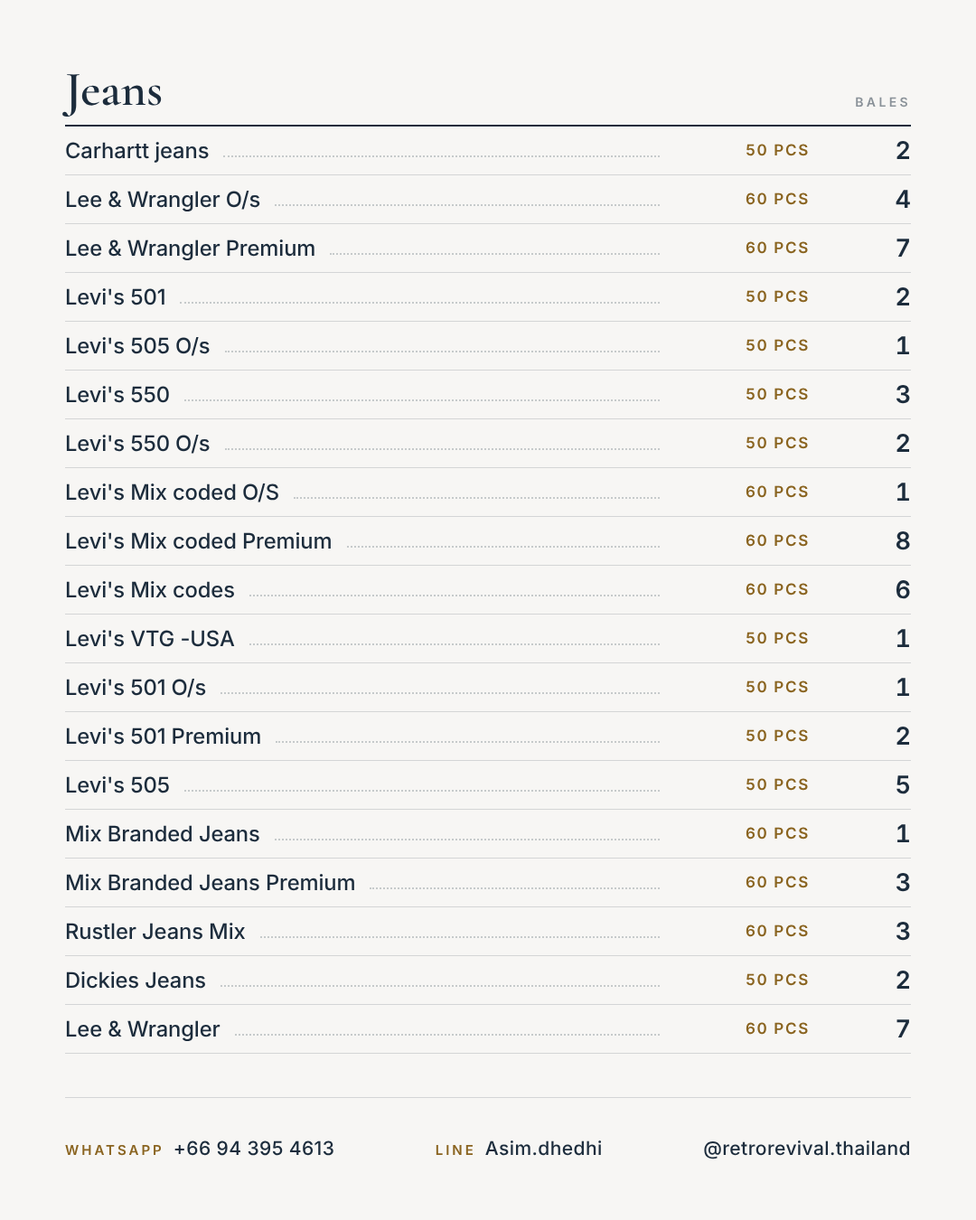
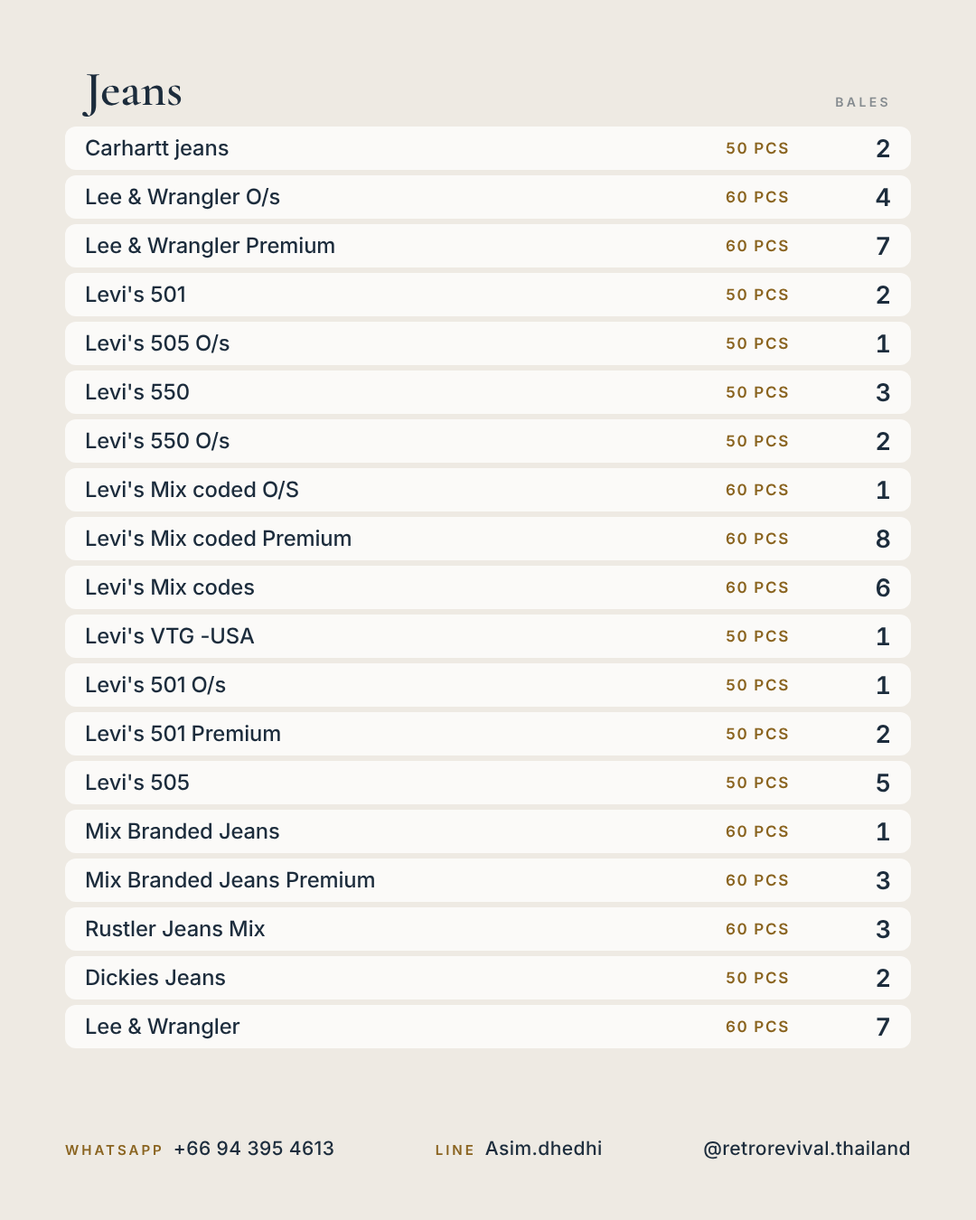
Add line-art cover option for A/B; swap row lines for soft containers
The --cover-art build flag draws a gold line illustration of strapped
bales beside the cover title. List rows now sit in near-white containers
on a warm cream slide, replacing row rules, dotted leaders, and section
underlines.

Claude-Session: https://claude.ai/code/session_01FjARQ1TdBw1wsppj9LT4t6

diff --git a/projects/stock-drop/output/2026-10/carousel.html b/projects/stock-drop/output/2026-10/carousel.html
@@ -18,31 +18,31 @@
       <div class="block">
         <div class="section-head"><h2>Collar T-shirts (3 buttons)</h2><span class="qt">Bales</span></div>
         <ul class="rows">
-          <li><span class="cat">Branded Collar T-shirts</span><span class="leader"></span><span class="pk">200 Pcs</span><span class="qty">3</span></li>
-          <li><span class="cat">Polo RL &amp; Tommy Collar T-shirts</span><span class="leader"></span><span class="pk">150 Pcs</span><span class="qty">6</span></li>
+          <li><span class="cat">Branded Collar T-shirts</span><span class="pk">200 Pcs</span><span class="qty">3</span></li>
+          <li><span class="cat">Polo RL &amp; Tommy Collar T-shirts</span><span class="pk">150 Pcs</span><span class="qty">6</span></li>
         </ul>
       </div>
       <div class="block">
         <div class="section-head"><h2>Cotton Shorts</h2><span class="qt">Bales</span></div>
         <ul class="rows">
-          <li><span class="cat">Mix Branded Cotton Shorts No.1</span><span class="leader"></span><span class="pk">150 Pcs</span><span class="qty">1</span></li>
-          <li><span class="cat">Mix Branded Cotton Shorts No.1 O/s</span><span class="leader"></span><span class="pk">150 Pcs</span><span class="qty">1</span></li>
-          <li><span class="cat">Mix Branded Cotton Shorts Premium</span><span class="leader"></span><span class="pk">150 Pcs</span><span class="qty">5</span></li>
-          <li><span class="cat">Mix Branded Cotton Shorts Premium O/s</span><span class="leader"></span><span class="pk">150 Pcs</span><span class="qty">3</span></li>
+          <li><span class="cat">Mix Branded Cotton Shorts No.1</span><span class="pk">150 Pcs</span><span class="qty">1</span></li>
+          <li><span class="cat">Mix Branded Cotton Shorts No.1 O/s</span><span class="pk">150 Pcs</span><span class="qty">1</span></li>
+          <li><span class="cat">Mix Branded Cotton Shorts Premium</span><span class="pk">150 Pcs</span><span class="qty">5</span></li>
+          <li><span class="cat">Mix Branded Cotton Shorts Premium O/s</span><span class="pk">150 Pcs</span><span class="qty">3</span></li>
         </ul>
       </div>
       <div class="block">
         <div class="section-head"><h2>Pants</h2><span class="qt">Bales</span></div>
         <ul class="rows">
-          <li><span class="cat">Carhartt Double Knee</span><span class="leader"></span><span class="pk">50 Pcs</span><span class="qty">1</span></li>
-          <li><span class="cat">Carhartt Pants Premium</span><span class="leader"></span><span class="pk">60 Pcs</span><span class="qty">3</span></li>
-          <li><span class="cat">Dickies Pants</span><span class="leader"></span><span class="pk">100 Pcs</span><span class="qty">2</span></li>
-          <li><span class="cat">Dickies Pants Premium</span><span class="leader"></span><span class="pk">100 Pcs</span><span class="qty">6</span></li>
-          <li><span class="cat">Mix Brand Pants</span><span class="leader"></span><span class="pk">100 Pcs</span><span class="qty">2</span></li>
-          <li><span class="cat">Mix Brand Pants O/S</span><span class="leader"></span><span class="pk">100 Pcs</span><span class="qty">1</span></li>
-          <li><span class="cat">Mix Brand Premium Pants</span><span class="leader"></span><span class="pk">100 Pcs</span><span class="qty">7</span></li>
-          <li><span class="cat">Polo RL Pants</span><span class="leader"></span><span class="pk">100 Pcs</span><span class="qty">2</span></li>
-          <li><span class="cat">Polo RL Pants Premium</span><span class="leader"></span><span class="pk">100 Pcs</span><span class="qty">1</span></li>
+          <li><span class="cat">Carhartt Double Knee</span><span class="pk">50 Pcs</span><span class="qty">1</span></li>
+          <li><span class="cat">Carhartt Pants Premium</span><span class="pk">60 Pcs</span><span class="qty">3</span></li>
+          <li><span class="cat">Dickies Pants</span><span class="pk">100 Pcs</span><span class="qty">2</span></li>
+          <li><span class="cat">Dickies Pants Premium</span><span class="pk">100 Pcs</span><span class="qty">6</span></li>
+          <li><span class="cat">Mix Brand Pants</span><span class="pk">100 Pcs</span><span class="qty">2</span></li>
+          <li><span class="cat">Mix Brand Pants O/S</span><span class="pk">100 Pcs</span><span class="qty">1</span></li>
+          <li><span class="cat">Mix Brand Premium Pants</span><span class="pk">100 Pcs</span><span class="qty">7</span></li>
+          <li><span class="cat">Polo RL Pants</span><span class="pk">100 Pcs</span><span class="qty">2</span></li>
+          <li><span class="cat">Polo RL Pants Premium</span><span class="pk">100 Pcs</span><span class="qty">1</span></li>
         </ul>
       </div>
     </div>
@@ -60,36 +60,36 @@
       <div class="block">
         <div class="section-head"><h2>Army</h2><span class="qt">Bales</span></div>
         <ul class="rows">
-          <li><span class="cat">Army Summer Mix</span><span class="leader"></span><span class="pk">60 Pcs</span><span class="qty">8</span></li>
-          <li><span class="cat">Vintage Army Mix Broken</span><span class="leader"></span><span class="pk">100 Lbs</span><span class="qty">3</span></li>
+          <li><span class="cat">Army Summer Mix</span><span class="pk">60 Pcs</span><span class="qty">8</span></li>
+          <li><span class="cat">Vintage Army Mix Broken</span><span class="pk">100 Lbs</span><span class="qty">3</span></li>
         </ul>
       </div>
       <div class="block">
         <div class="section-head"><h2>Baby</h2><span class="qt">Bales</span></div>
         <ul class="rows">
-          <li><span class="cat">Baby Vintage</span><span class="leader"></span><span class="pk">100 Lbs</span><span class="qty">9</span></li>
+          <li><span class="cat">Baby Vintage</span><span class="pk">100 Lbs</span><span class="qty">9</span></li>
         </ul>
       </div>
       <div class="block">
         <div class="section-head"><h2>Overall</h2><span class="qt">Bales</span></div>
         <ul class="rows">
-          <li><span class="cat">Canvas Material</span><span class="leader"></span><span class="pk">30 Pcs</span><span class="qty">2</span></li>
-          <li><span class="cat">Cotton Overall Mix</span><span class="leader"></span><span class="pk">30 Pcs</span><span class="qty">1</span></li>
-          <li><span class="cat">Jeans Material</span><span class="leader"></span><span class="pk">30 Pcs</span><span class="qty">3</span></li>
+          <li><span class="cat">Canvas Material</span><span class="pk">30 Pcs</span><span class="qty">2</span></li>
+          <li><span class="cat">Cotton Overall Mix</span><span class="pk">30 Pcs</span><span class="qty">1</span></li>
+          <li><span class="cat">Jeans Material</span><span class="pk">30 Pcs</span><span class="qty">3</span></li>
         </ul>
       </div>
       <div class="block">
         <div class="section-head"><h2>Sports T-shirts</h2><span class="qt">Bales</span></div>
         <ul class="rows">
-          <li><span class="cat">NBA/NFL Jerseys</span><span class="leader"></span><span class="pk">150 Pcs</span><span class="qty">2</span></li>
-          <li><span class="cat">Sports Branded T-shirts</span><span class="leader"></span><span class="pk">200 Pcs</span><span class="qty">4</span></li>
+          <li><span class="cat">NBA/NFL Jerseys</span><span class="pk">150 Pcs</span><span class="qty">2</span></li>
+          <li><span class="cat">Sports Branded T-shirts</span><span class="pk">200 Pcs</span><span class="qty">4</span></li>
         </ul>
       </div>
       <div class="block">
         <div class="section-head"><h2>Trousers</h2><span class="qt">Bales</span></div>
         <ul class="rows">
-          <li><span class="cat">Track Mix Trouser</span><span class="leader"></span><span class="pk">100 pcs</span><span class="qty">4</span></li>
-          <li><span class="cat">Vintage mix Trouser</span><span class="leader"></span><span class="pk">100 Pcs</span><span class="qty">2</span></li>
+          <li><span class="cat">Track Mix Trouser</span><span class="pk">100 pcs</span><span class="qty">4</span></li>
+          <li><span class="cat">Vintage mix Trouser</span><span class="pk">100 Pcs</span><span class="qty">2</span></li>
         </ul>
       </div>
     </div>
@@ -107,28 +107,28 @@
       <div class="block">
         <div class="section-head"><h2>Branded T-shirts</h2><span class="qt">Bales</span></div>
         <ul class="rows">
-          <li><span class="cat">Branded T-Shirts Over Size</span><span class="leader"></span><span class="pk">100 Lbs</span><span class="qty">5</span></li>
-          <li><span class="cat">Carhartt T-Shirts</span><span class="leader"></span><span class="pk">150 Pcs</span><span class="qty">4</span></li>
-          <li><span class="cat">Mix Branded T-shirts</span><span class="leader"></span><span class="pk">200 Pcs</span><span class="qty">17</span></li>
+          <li><span class="cat">Branded T-Shirts Over Size</span><span class="pk">100 Lbs</span><span class="qty">5</span></li>
+          <li><span class="cat">Carhartt T-Shirts</span><span class="pk">150 Pcs</span><span class="qty">4</span></li>
+          <li><span class="cat">Mix Branded T-shirts</span><span class="pk">200 Pcs</span><span class="qty">17</span></li>
         </ul>
       </div>
       <div class="block">
         <div class="section-head"><h2>Printed T-shirts</h2><span class="qt">Bales</span></div>
         <ul class="rows">
-          <li><span class="cat">Vintage Oversize Printed T-Shirts</span><span class="leader"></span><span class="pk">100 Lbs</span><span class="qty">9</span></li>
-          <li><span class="cat">France T-Shirts</span><span class="leader"></span><span class="pk">100 Lbs</span><span class="qty">4</span></li>
-          <li><span class="cat">50/50 T-shirts</span><span class="leader"></span><span class="pk">200 Pcs</span><span class="qty">3</span></li>
-          <li><span class="cat">American Movie Print T-shirts</span><span class="leader"></span><span class="pk">200 Pcs</span><span class="qty">6</span></li>
-          <li><span class="cat">Anime Cartoon Print T-shirts</span><span class="leader"></span><span class="pk">200 Pcs</span><span class="qty">2</span></li>
-          <li><span class="cat">Army Mix T-shirts</span><span class="leader"></span><span class="pk">200 Pcs</span><span class="qty">1</span></li>
-          <li><span class="cat">Disney Cartoon T-shirts</span><span class="leader"></span><span class="pk">200 Pcs</span><span class="qty">4</span></li>
-          <li><span class="cat">Harley-Davidson T-shirts</span><span class="leader"></span><span class="pk">150 Pcs</span><span class="qty">3</span></li>
-          <li><span class="cat">Marvel Movie Print</span><span class="leader"></span><span class="pk">200 Pcs</span><span class="qty">2</span></li>
-          <li><span class="cat">Mountain T-shirts</span><span class="leader"></span><span class="pk">150 Pcs</span><span class="qty">1</span></li>
-          <li><span class="cat">Music T-shirts</span><span class="leader"></span><span class="pk">200 Pcs</span><span class="qty">12</span></li>
-          <li><span class="cat">NASCAR T-shirts</span><span class="leader"></span><span class="pk">150 Pcs</span><span class="qty">1</span></li>
-          <li><span class="cat">Single Stitch T-shirts</span><span class="leader"></span><span class="pk">200 Pcs</span><span class="qty">4</span></li>
-          <li><span class="cat">Vintage Printed T-shirts</span><span class="leader"></span><span class="pk">200 Pcs</span><span class="qty">18</span></li>
+          <li><span class="cat">Vintage Oversize Printed T-Shirts</span><span class="pk">100 Lbs</span><span class="qty">9</span></li>
+          <li><span class="cat">France T-Shirts</span><span class="pk">100 Lbs</span><span class="qty">4</span></li>
+          <li><span class="cat">50/50 T-shirts</span><span class="pk">200 Pcs</span><span class="qty">3</span></li>
+          <li><span class="cat">American Movie Print T-shirts</span><span class="pk">200 Pcs</span><span class="qty">6</span></li>
+          <li><span class="cat">Anime Cartoon Print T-shirts</span><span class="pk">200 Pcs</span><span class="qty">2</span></li>
+          <li><span class="cat">Army Mix T-shirts</span><span class="pk">200 Pcs</span><span class="qty">1</span></li>
+          <li><span class="cat">Disney Cartoon T-shirts</span><span class="pk">200 Pcs</span><span class="qty">4</span></li>
+          <li><span class="cat">Harley-Davidson T-shirts</span><span class="pk">150 Pcs</span><span class="qty">3</span></li>
+          <li><span class="cat">Marvel Movie Print</span><span class="pk">200 Pcs</span><span class="qty">2</span></li>
+          <li><span class="cat">Mountain T-shirts</span><span class="pk">150 Pcs</span><span class="qty">1</span></li>
+          <li><span class="cat">Music T-shirts</span><span class="pk">200 Pcs</span><span class="qty">12</span></li>
+          <li><span class="cat">NASCAR T-shirts</span><span class="pk">150 Pcs</span><span class="qty">1</span></li>
+          <li><span class="cat">Single Stitch T-shirts</span><span class="pk">200 Pcs</span><span class="qty">4</span></li>
+          <li><span class="cat">Vintage Printed T-shirts</span><span class="pk">200 Pcs</span><span class="qty">18</span></li>
         </ul>
       </div>
     </div>
@@ -146,26 +146,26 @@
       <div class="block">
         <div class="section-head"><h2>Broken</h2><span class="qt">Bales</span></div>
         <ul class="rows">
-          <li><span class="cat">Levi's Coded Broken</span><span class="leader"></span><span class="pk">60 Pcs</span><span class="qty">32</span></li>
-          <li><span class="cat">Vintage Broken T-Shirts</span><span class="leader"></span><span class="pk">100 Lbs</span><span class="qty">21</span></li>
-          <li><span class="cat">Vintage Carhartt Mix Broken</span><span class="leader"></span><span class="pk">100 Lbs</span><span class="qty">62</span></li>
-          <li><span class="cat">Vintage Dickies Mix Broken</span><span class="leader"></span><span class="pk">100 Lbs</span><span class="qty">68</span></li>
-          <li><span class="cat">CN Jackets PK</span><span class="leader"></span><span class="pk">100 Lbs</span><span class="qty">1</span></li>
-          <li><span class="cat">Polo RL Cut</span><span class="leader"></span><span class="pk">100 Lbs</span><span class="qty">1</span></li>
+          <li><span class="cat">Levi's Coded Broken</span><span class="pk">60 Pcs</span><span class="qty">32</span></li>
+          <li><span class="cat">Vintage Broken T-Shirts</span><span class="pk">100 Lbs</span><span class="qty">21</span></li>
+          <li><span class="cat">Vintage Carhartt Mix Broken</span><span class="pk">100 Lbs</span><span class="qty">62</span></li>
+          <li><span class="cat">Vintage Dickies Mix Broken</span><span class="pk">100 Lbs</span><span class="qty">68</span></li>
+          <li><span class="cat">CN Jackets PK</span><span class="pk">100 Lbs</span><span class="qty">1</span></li>
+          <li><span class="cat">Polo RL Cut</span><span class="pk">100 Lbs</span><span class="qty">1</span></li>
         </ul>
       </div>
       <div class="block">
         <div class="section-head"><h2>Men Shirts</h2><span class="qt">Bales</span></div>
         <ul class="rows">
-          <li><span class="cat">Chaps &amp; Nautica Mix Shirts</span><span class="leader"></span><span class="pk">150 Pcs</span><span class="qty">8</span></li>
-          <li><span class="cat">Cowboy Shirts</span><span class="leader"></span><span class="pk">150 Pcs</span><span class="qty">3</span></li>
-          <li><span class="cat">Hawaii Shirts</span><span class="leader"></span><span class="pk">150 Pcs</span><span class="qty">7</span></li>
-          <li><span class="cat">LLW Shirts</span><span class="leader"></span><span class="pk">150 Pcs</span><span class="qty">3</span></li>
-          <li><span class="cat">Polo RL Shirts</span><span class="leader"></span><span class="pk">150 Pcs</span><span class="qty">4</span></li>
-          <li><span class="cat">Premium Fashion Branded Shirts</span><span class="leader"></span><span class="pk">150 Pcs</span><span class="qty">4</span></li>
-          <li><span class="cat">Premium Vintage Branded Shirts</span><span class="leader"></span><span class="pk">150 Pcs</span><span class="qty">7</span></li>
-          <li><span class="cat">Scout Shirts</span><span class="leader"></span><span class="pk">150 Pcs</span><span class="qty">4</span></li>
-          <li><span class="cat">Tommy Hilfiger Shirts</span><span class="leader"></span><span class="pk">150 Pcs</span><span class="qty">2</span></li>
+          <li><span class="cat">Chaps &amp; Nautica Mix Shirts</span><span class="pk">150 Pcs</span><span class="qty">8</span></li>
+          <li><span class="cat">Cowboy Shirts</span><span class="pk">150 Pcs</span><span class="qty">3</span></li>
+          <li><span class="cat">Hawaii Shirts</span><span class="pk">150 Pcs</span><span class="qty">7</span></li>
+          <li><span class="cat">LLW Shirts</span><span class="pk">150 Pcs</span><span class="qty">3</span></li>
+          <li><span class="cat">Polo RL Shirts</span><span class="pk">150 Pcs</span><span class="qty">4</span></li>
+          <li><span class="cat">Premium Fashion Branded Shirts</span><span class="pk">150 Pcs</span><span class="qty">4</span></li>
+          <li><span class="cat">Premium Vintage Branded Shirts</span><span class="pk">150 Pcs</span><span class="qty">7</span></li>
+          <li><span class="cat">Scout Shirts</span><span class="pk">150 Pcs</span><span class="qty">4</span></li>
+          <li><span class="cat">Tommy Hilfiger Shirts</span><span class="pk">150 Pcs</span><span class="qty">2</span></li>
         </ul>
       </div>
     </div>
@@ -183,25 +183,25 @@
       <div class="block">
         <div class="section-head"><h2>Jeans</h2><span class="qt">Bales</span></div>
         <ul class="rows">
-          <li><span class="cat">Carhartt jeans</span><span class="leader"></span><span class="pk">50 Pcs</span><span class="qty">2</span></li>
-          <li><span class="cat">Lee &amp; Wrangler O/s</span><span class="leader"></span><span class="pk">60 Pcs</span><span class="qty">4</span></li>
-          <li><span class="cat">Lee &amp; Wrangler Premium</span><span class="leader"></span><span class="pk">60 Pcs</span><span class="qty">7</span></li>
-          <li><span class="cat">Levi's 501</span><span class="leader"></span><span class="pk">50 Pcs</span><span class="qty">2</span></li>
-          <li><span class="cat">Levi's 505 O/s</span><span class="leader"></span><span class="pk">50 Pcs</span><span class="qty">1</span></li>
-          <li><span class="cat">Levi's 550</span><span class="leader"></span><span class="pk">50 Pcs</span><span class="qty">3</span></li>
-          <li><span class="cat">Levi's 550 O/s</span><span class="leader"></span><span class="pk">50 Pcs</span><span class="qty">2</span></li>
-          <li><span class="cat">Levi's Mix coded O/S</span><span class="leader"></span><span class="pk">60 Pcs</span><span class="qty">1</span></li>
-          <li><span class="cat">Levi's Mix coded Premium</span><span class="leader"></span><span class="pk">60 Pcs</span><span class="qty">8</span></li>
-          <li><span class="cat">Levi's Mix codes</span><span class="leader"></span><span class="pk">60 Pcs</span><span class="qty">6</span></li>
-          <li><span class="cat">Levi's VTG -USA</span><span class="leader"></span><span class="pk">50 Pcs</span><span class="qty">1</span></li>
-          <li><span class="cat">Levi's 501 O/s</span><span class="leader"></span><span class="pk">50 Pcs</span><span class="qty">1</span></li>
-          <li><span class="cat">Levi's 501 Premium</span><span class="leader"></span><span class="pk">50 Pcs</span><span class="qty">2</span></li>
-          <li><span class="cat">Levi's 505</span><span class="leader"></span><span class="pk">50 Pcs</span><span class="qty">5</span></li>
-          <li><span class="cat">Mix Branded Jeans</span><span class="leader"></span><span class="pk">60 Pcs</span><span class="qty">1</span></li>
-          <li><span class="cat">Mix Branded Jeans Premium</span><span class="leader"></span><span class="pk">60 Pcs</span><span class="qty">3</span></li>
-          <li><span class="cat">Rustler Jeans Mix</span><span class="leader"></span><span class="pk">60 Pcs</span><span class="qty">3</span></li>
-          <li><span class="cat">Dickies Jeans</span><span class="leader"></span><span class="pk">50 Pcs</span><span class="qty">2</span></li>
-          <li><span class="cat">Lee &amp; Wrangler</span><span class="leader"></span><span class="pk">60 Pcs</span><span class="qty">7</span></li>
+          <li><span class="cat">Carhartt jeans</span><span class="pk">50 Pcs</span><span class="qty">2</span></li>
+          <li><span class="cat">Lee &amp; Wrangler O/s</span><span class="pk">60 Pcs</span><span class="qty">4</span></li>
+          <li><span class="cat">Lee &amp; Wrangler Premium</span><span class="pk">60 Pcs</span><span class="qty">7</span></li>
+          <li><span class="cat">Levi's 501</span><span class="pk">50 Pcs</span><span class="qty">2</span></li>
+          <li><span class="cat">Levi's 505 O/s</span><span class="pk">50 Pcs</span><span class="qty">1</span></li>
+          <li><span class="cat">Levi's 550</span><span class="pk">50 Pcs</span><span class="qty">3</span></li>
+          <li><span class="cat">Levi's 550 O/s</span><span class="pk">50 Pcs</span><span class="qty">2</span></li>
+          <li><span class="cat">Levi's Mix coded O/S</span><span class="pk">60 Pcs</span><span class="qty">1</span></li>
+          <li><span class="cat">Levi's Mix coded Premium</span><span class="pk">60 Pcs</span><span class="qty">8</span></li>
+          <li><span class="cat">Levi's Mix codes</span><span class="pk">60 Pcs</span><span class="qty">6</span></li>
+          <li><span class="cat">Levi's VTG -USA</span><span class="pk">50 Pcs</span><span class="qty">1</span></li>
+          <li><span class="cat">Levi's 501 O/s</span><span class="pk">50 Pcs</span><span class="qty">1</span></li>
+          <li><span class="cat">Levi's 501 Premium</span><span class="pk">50 Pcs</span><span class="qty">2</span></li>
+          <li><span class="cat">Levi's 505</span><span class="pk">50 Pcs</span><span class="qty">5</span></li>
+          <li><span class="cat">Mix Branded Jeans</span><span class="pk">60 Pcs</span><span class="qty">1</span></li>
+          <li><span class="cat">Mix Branded Jeans Premium</span><span class="pk">60 Pcs</span><span class="qty">3</span></li>
+          <li><span class="cat">Rustler Jeans Mix</span><span class="pk">60 Pcs</span><span class="qty">3</span></li>
+          <li><span class="cat">Dickies Jeans</span><span class="pk">50 Pcs</span><span class="qty">2</span></li>
+          <li><span class="cat">Lee &amp; Wrangler</span><span class="pk">60 Pcs</span><span class="qty">7</span></li>
         </ul>
       </div>
     </div>
@@ -219,25 +219,25 @@
       <div class="block">
         <div class="section-head"><h2>Caps</h2><span class="qt">Bales</span></div>
         <ul class="rows">
-          <li><span class="cat">Vintage Caps</span><span class="leader"></span><span class="pk">200 PCs</span><span class="qty">3</span></li>
+          <li><span class="cat">Vintage Caps</span><span class="pk">200 PCs</span><span class="qty">3</span></li>
         </ul>
       </div>
       <div class="block">
         <div class="section-head"><h2>Sports Shorts</h2><span class="qt">Bales</span></div>
         <ul class="rows">
-          <li><span class="cat">Branded Sports Shorts Mix</span><span class="leader"></span><span class="pk">200 Pcs</span><span class="qty">4</span></li>
+          <li><span class="cat">Branded Sports Shorts Mix</span><span class="pk">200 Pcs</span><span class="qty">4</span></li>
         </ul>
       </div>
       <div class="block">
         <div class="section-head"><h2>Summer Mix</h2><span class="qt">Bales</span></div>
         <ul class="rows">
-          <li><span class="cat">Vintage Light Mix</span><span class="leader"></span><span class="pk">100 Lbs</span><span class="qty">4</span></li>
+          <li><span class="cat">Vintage Light Mix</span><span class="pk">100 Lbs</span><span class="qty">4</span></li>
         </ul>
       </div>
       <div class="block">
         <div class="section-head"><h2>Winter</h2><span class="qt">Bales</span></div>
         <ul class="rows">
-          <li><span class="cat">Vintage Mix Heavy</span><span class="leader"></span><span class="pk">60 Pcs</span><span class="qty">164</span></li>
+          <li><span class="cat">Vintage Mix Heavy</span><span class="pk">60 Pcs</span><span class="qty">164</span></li>
         </ul>
       </div>
     </div>

diff --git a/projects/stock-drop/template/styles.css b/projects/stock-drop/template/styles.css
@@ -27,6 +27,8 @@
   --gold-light: #d2ad66;  /* gold for text on navy */
   --gold-dark: #8a6420;   /* gold for small text on cream */
   --cream: #f7f6f4;       /* logo background */
+  --paper: #eeeae3;       /* list-slide background, a shade deeper than cream */
+  --card: #fbfaf8;        /* list-row container */
   --rule: rgba(28, 44, 60, 0.16);
   --serif: "Cormorant Garamond", Georgia, serif;
   --sans: "Inter", Helvetica, Arial, sans-serif;
@@ -40,7 +42,7 @@ body { background: #555; font-family: var(--sans); color: var(--navy); }
   width: 1080px;
   height: 1350px;
   overflow: hidden;
-  background: var(--cream);
+  background: var(--paper);
   margin: 0 auto 40px;
 }
 .slide.dark { background: var(--navy-deep); color: var(--cream); }
@@ -55,7 +57,7 @@ body { background: #555; font-family: var(--sans); color: var(--navy); }
 
 .footer {
   position: absolute; left: 72px; right: 72px; bottom: 44px; height: 92px;
-  padding-top: 20px; border-top: 1px solid var(--rule);
+  padding-top: 20px;
   display: flex; align-items: center; justify-content: space-between; gap: 32px;
 }
 .footer .contacts { flex: 1; display: flex; justify-content: space-between; gap: 34px; font: 500 21px/1 var(--sans); letter-spacing: 0.02em; }
@@ -103,6 +105,9 @@ body { background: #555; font-family: var(--sans); color: var(--navy); }
 .cover-text .pillars {
   font: 400 25px/1.5 var(--sans); color: rgba(247, 246, 244, 0.82);
 }
+/* Optional line drawing of bales (--cover-art), right of the title. */
+.cover-art { position: absolute; right: 60px; top: 560px; width: 440px; color: var(--gold-light); opacity: 0.9; }
+.cover-art svg { display: block; width: 100%; height: auto; }
 .cover-contacts { margin-top: 30px; display: flex; gap: 40px; font: 600 26px/1 var(--sans); color: var(--cream); }
 .cover-contacts b { color: var(--gold-light); }
 .swipe {
@@ -119,7 +124,7 @@ body { background: #555; font-family: var(--sans); color: var(--navy); }
 .block + .block { margin-top: 26px; }
 .section-head {
   display: flex; align-items: flex-end; gap: 20px;
-  height: 76px; padding-bottom: 12px; border-bottom: 2px solid var(--navy);
+  height: 76px; padding: 0 22px 14px;
 }
 .section-head h2 { margin: 0; font: 600 54px/1 var(--serif); font-variant-numeric: lining-nums; white-space: nowrap; }
 .section-head .qt {
@@ -127,15 +132,16 @@ body { background: #555; font-family: var(--sans); color: var(--navy); }
   text-transform: uppercase; color: rgba(28,44,60,0.5);
 }
 
-/* Columns: description · leader · packing · quantity */
+/* Columns: description · packing · quantity */
 .rows .pk { width: 150px; text-align: right; }
 .section-head .qt, .rows .qty { width: 96px; text-align: right; }
 
 .rows li {
+  /* Each line sits in a soft container; the gap between containers replaces rules. */
   list-style: none; display: flex; align-items: center; gap: 16px;
-  height: var(--row); border-bottom: 1px solid var(--rule);
+  height: calc(var(--row) - 6px); margin-bottom: 6px; padding: 0 22px;
+  background: var(--card); border-radius: 12px;
 }
-.rows .cat { min-width: 0; font: 500 calc(var(--row) * 0.44)/1.15 var(--sans); letter-spacing: -0.005em; white-space: nowrap; overflow: hidden; }
-.rows .leader { flex: 1; min-width: 24px; align-self: center; border-bottom: 2px dotted rgba(28,44,60,0.22); transform: translateY(6px); }
+.rows .cat { flex: 1; min-width: 0; font: 500 calc(var(--row) * 0.44)/1.15 var(--sans); letter-spacing: -0.005em; white-space: nowrap; overflow: hidden; }
 .rows .pk { flex: none; font: 600 17px/1 var(--sans); letter-spacing: 0.1em; text-transform: uppercase; color: var(--gold-dark); white-space: nowrap; overflow: hidden; }
 .rows .qty { flex: none; font: 600 calc(var(--row) * 0.5)/1 var(--sans); font-variant-numeric: tabular-nums; }

diff --git a/projects/stock-drop/README.md b/projects/stock-drop/README.md
@@ -62,6 +62,7 @@ The build reads the client's own layout. Columns are matched by header name, so 
 - **Totals check:** the build stops if the lines don't add up to the sheet's total row.
 - **Overflow check:** the build stops if any text would be cut off.
 - **Slide cap:** the build stops if every section can't fit whole within 7 slides.
+- **Cover art (A/B option):** add `--cover-art` to the build to draw a gold line illustration of strapped bales beside the title (`template/art/bales-line.svg`). Without it, the cover is plain navy.
 - **Cover background:** brand navy. If `assets/photos/warehouse.jpg` exists, the build uses it instead. Add the file and rebuild to switch to the photo.
 
 ### Data on file
@@ -88,6 +89,7 @@ Contact details come from `src/brand.mjs`. Keep that file in sync with the [busi
 
 ## Design system
 
+- **List rows:** each bale line sits in a soft, near-white container on a warm cream slide. No rules or dotted leaders: the containers guide the eye.
 - **Colours:** taken from the logo (see [brand direction](../../docs/strategy/brand-direction.md#colours)).
 - **Type:** Cormorant Garamond for headings, always with lining figures (its default old-style numerals drop below the line). Inter for descriptions, packing, and bale quantities. Both use the SIL Open Font License, and the files are bundled in `template/fonts/`.
 - **Logo:** `assets/brand/logo-primary-trimmed.png` is the official file, cropped only. It sits on an off-white plate because the file has no transparent background.

diff --git a/docs/client/decisions.md b/docs/client/decisions.md
@@ -4,6 +4,7 @@ Answers and decisions confirmed by the client or Hammad. Add new entries at the 
 
 | Date | Decision | Source | Docs updated |
 | :- | :- | :- | :- |
+| 2026-10-10 | List rows use soft containers instead of rules and dotted leaders | Hammad | projects/stock-drop |
 | 2026-10-10 | The logo appears on the carousel cover only. List-slide footers carry WhatsApp, LINE, and Instagram | Hammad | projects/stock-drop |
 | 2026-10-10 | The sheet's section "3 button" shows on the slides as "Collar T-shirts (3 buttons)" | Hammad | projects/stock-drop/src/corrections.mjs |
 | 2026-10-10 | No warehouse photo exists. The carousel cover uses the brand navy background as its final design | Hammad | projects/stock-drop, brand-direction.md |

diff --git a/to-dos/stock-drop.md b/to-dos/stock-drop.md
@@ -10,6 +10,7 @@ Project: [projects/stock-drop](../projects/stock-drop/README.md)
 
 ## Improvements
 
+- [ ] **[Hammad]** Pick the cover: A (plain navy) or B (line drawing of bales) ([side by side](../projects/stock-drop/reviews/2026-10-cover-ab/side-by-side.png))
 From the [October critique](../projects/stock-drop/reviews/2026-10-critique.html):
 
 - [ ] **[Hammad]** "BALES" label: show it once per slide instead of on every section
